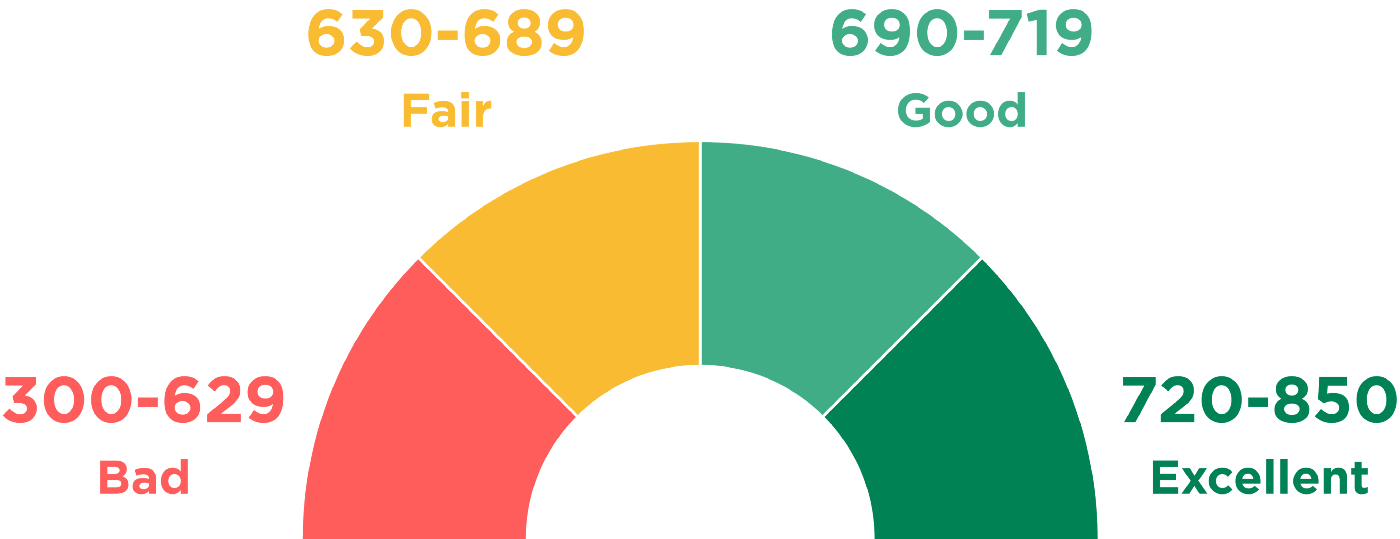
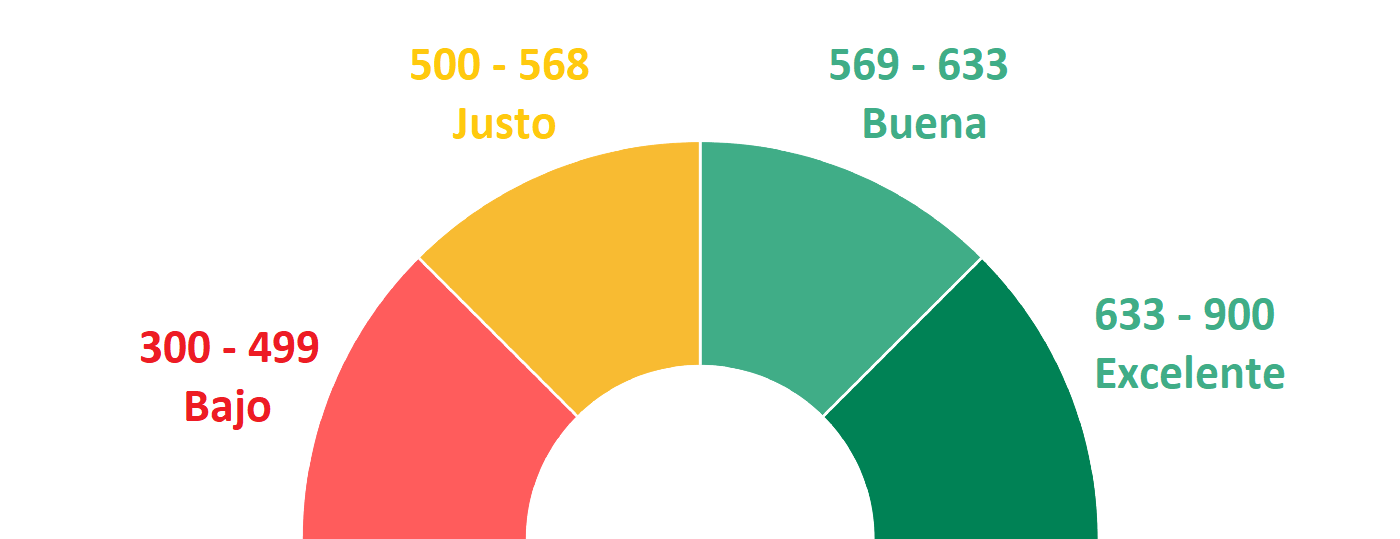
Se mejora la página web otra vez

diff --git a/main_strealit.py b/main_strealit.py
@@ -55,29 +55,29 @@ with st.form("my_form"):
     ('Es Propia','Está con hipoteca', 'Es arrendada u otra opción'))
 
 
-    option_tot_cur_bal = st.text_input('Balance actual total de todas las cuentas')
+    option_tot_cur_bal = st.text_input('Balance actual total de todas las cuentas (valor en dólares)')
     
     option_dti = st.text_input('Dti del prestatario')
 
     option_inq_last_6mths = st.text_input('Número de consultas en los últimos 6 meses')
 
-    option_out_prncp = st.text_input('Capital restante pendiente por el monto total financiado') 
+    option_out_prncp = st.text_input('Capital restante pendiente por el monto total financiado (valor en dólares)') 
 
-    option_int_rate = st.text_input('Tasa de interés')
+    option_int_rate = st.text_input('Tasa de interés (de 0 a 100)')
 
     option_term = st.selectbox(
     '¿Cuál es el término del crédito (en meses)?',
     (36, 60))
 
-    option_annual_inc = st.text_input('¿Cuáles son sus ingresos anuales?')
+    option_annual_inc = st.text_input('¿Cuáles son sus ingresos anuales? (valor en dólares)')
 
-    option_revol_util = st.text_input('¿Cuál es la tasa de utilización del crédito (valores de 0 a 1)?')
+    option_revol_util = st.text_input('¿Cuál es la tasa de utilización del crédito? (valores de 0 a 1)')
 
     option_grade = st.selectbox(
     '¿Grado de préstamo asignado en la carta de crédito?',
     ('A','B','C','D','E','F','G'))
 
-    submitted = st.form_submit_button("Submit")
+    submitted = st.form_submit_button("Enviar")
 
     df = pd.read_csv('scorecard.csv')
     puntaje = pd.read_csv('y_scores.csv')
@@ -258,7 +258,7 @@ with st.form("my_form"):
             percentil_debajo = 1 - percentile        
             
             if(300<=int(base) and int(base)<= 499):
-                st.markdown("#### Su puntaje de crédito es bajo \u1F534")
+                st.markdown("#### Su puntaje de crédito es bajo \U0001f534")
                 st.markdown("- Con este puntaje no puedes sacar un crédito en el banco.")
                 st.markdown("- Usted se en cuentra en el percentil "+ str(percentile) + ". Esto con respecto a la población quiere decir que usted tiene un puntaje mayor al  "+ str(percentile) + '% ' + 'de las otras personas y menor al ' + str(100-percentile) + '% .' )
                 st.markdown("#### Algunas recomendaciones para subir el puntaje:")
@@ -290,6 +290,5 @@ with st.form("my_form"):
             
             if(633<int(base) and int(base)<= 900):
                 st.markdown("#### Su puntaje de crédito es excelente  \u2714\uFE0F")
-                st.markdown("- El banco en cualquier caso te va a dar el crédito.")
                 st.markdown("- Usted se en cuentra en el percentil "+ str(percentile) + ". Esto con respecto a la población quiere decir que usted tiene un puntaje mayor al  "+ str(percentile) + '% ' + 'de las otras personas y menor al ' + str(100-percentile) + '%.')
                 st.markdown('- Felicitaciones por tus hábitos financieros, los bancos estarán encantados de prestarte plata.')
